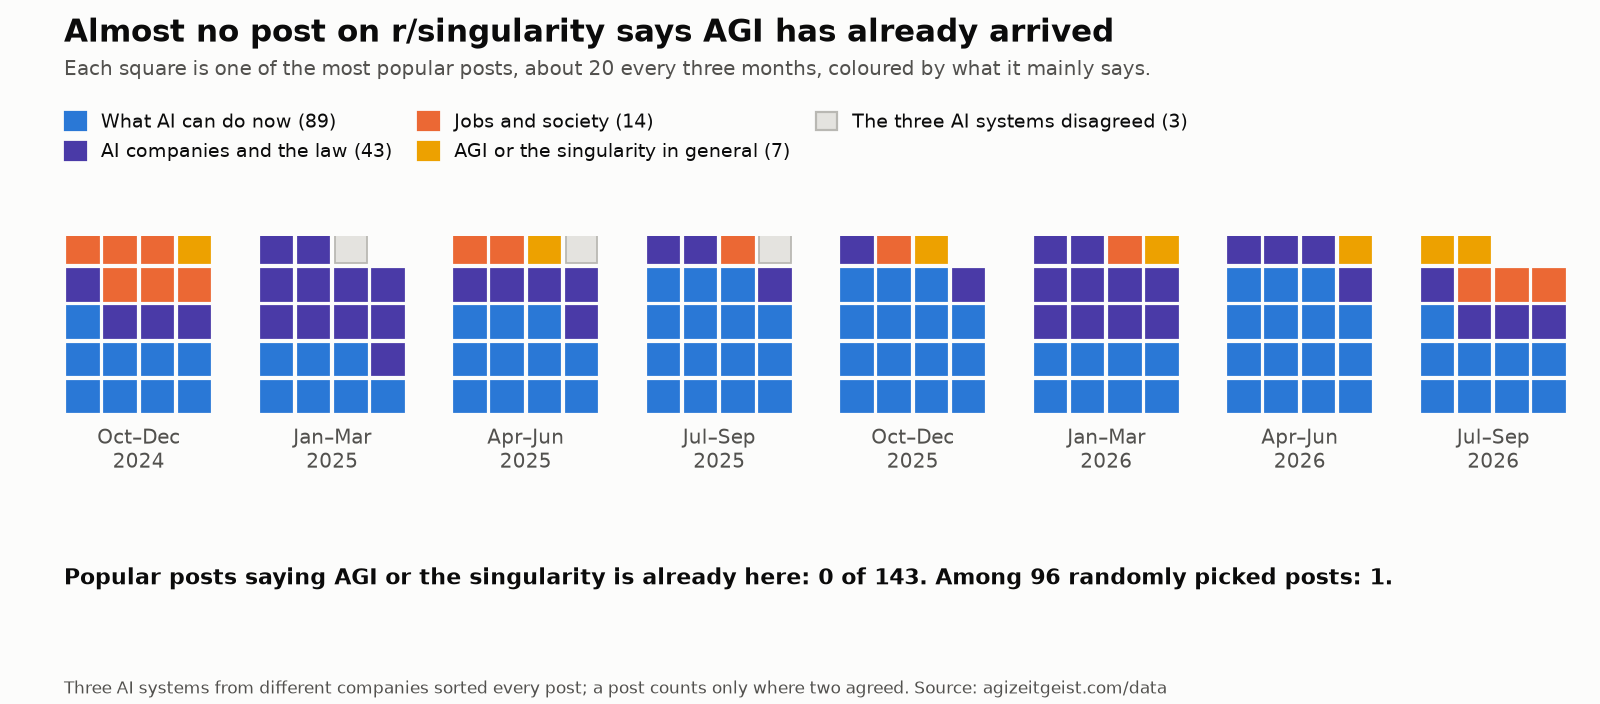
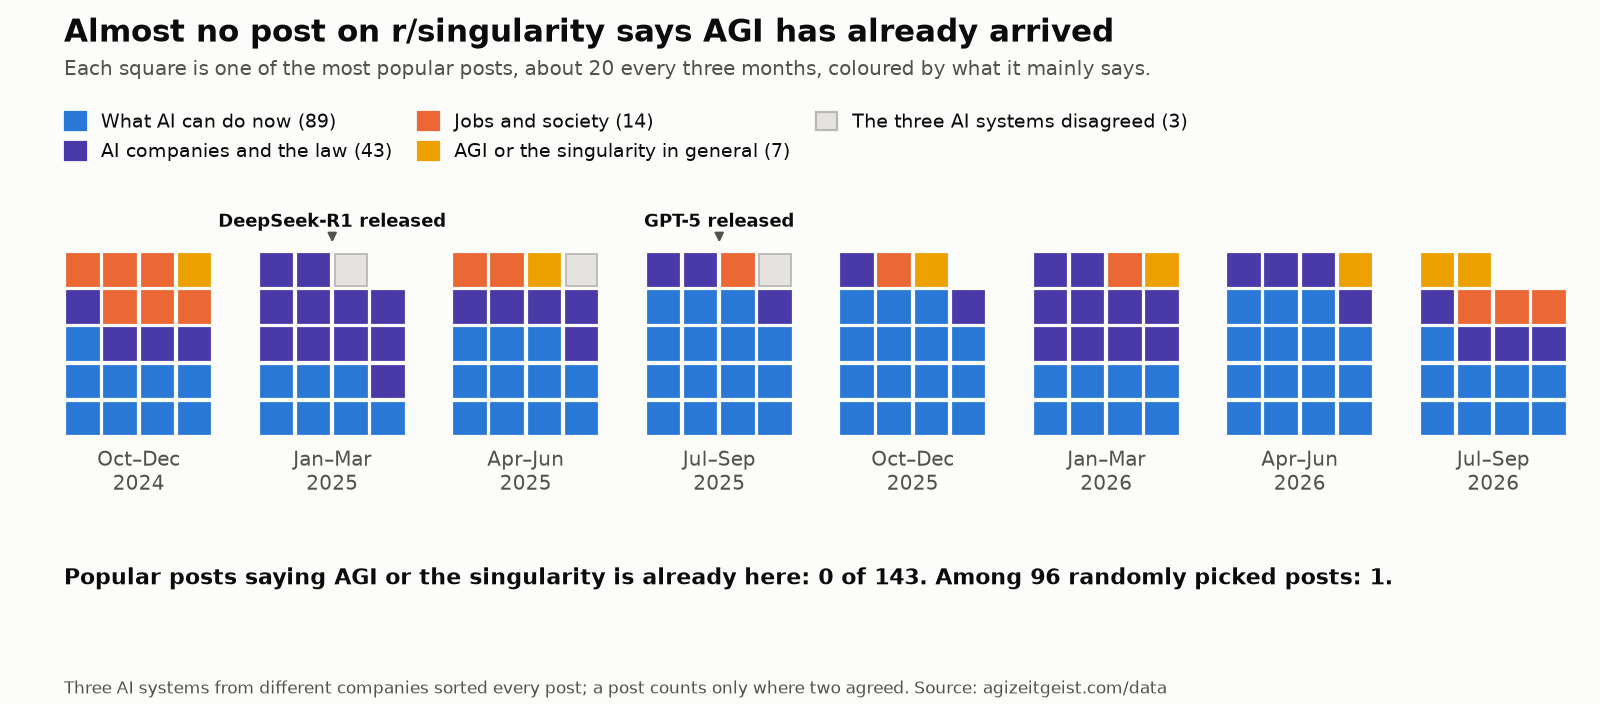
Charts: AI releases marked on the search and forum charts
The search chart draws a dotted line for each AI release in the events list
(AlphaGo to GPT-5), labelled along the line; the forum chart marks the two
releases inside its window (DeepSeek-R1, GPT-5) over their three months. Both
read the dates from data/events.csv by id. Only releases are marked; summits,
letters and government actions stay in the table so the charts stay readable.
The other charts have no time axis an event belongs on. Agreed by John.

Changed region(s): [[0.4062, 0.2812, 1.0, 0.7188], [0.0312, 0.2812, 0.375, 0.7188]]

diff --git a/site/index.html b/site/index.html
@@ -351,14 +351,14 @@ details p { color: var(--text-soft); }
 <h2>Method and data</h2>
 <p>Everything on this page is worked out from tables anyone can <a href="/data/">download</a>, and every row in those tables links to where it came from. What people said and expected is kept in <a href="/data/statements.csv">one set of tables</a>, and what the world actually did (how good AI got, what the companies reported, how the economy grew) in <a href="/data/world_measures.csv">another</a>; the two are never mixed. Every search that was run to find a quote is <a href="/data/search_log.csv">written down</a>, so that someone else can run it again. The working documents behind the site are published as they are written, in the project's own terms, for anyone checking the work: <a href="/docs/methodology-v2">the method</a>, <a href="/docs/codebook">the rules for sorting statements</a>, <a href="/docs/singularity-entry-definition">the rules of the test</a>, and <a href="/docs/amendments">every change, with its date and reason</a>. This page is the plain account of the same material.</p>
 <p>The searching and the sorting of statements were done by Claude, an AI model made by Anthropic, following those written rules; every rule, and every line of the test, was decided by John Fredrickson. The forum posts were sorted by three AI systems from three companies with no person checking them, and systems from different companies can still share blind spots.</p>
-<p class="cite">Cite as: Fredrickson, J. (2026). <em>AGI Zeitgeist Tracker</em> [dataset]. Version of 2026-10-08 (8bc45c5). https://agizeitgeist.com. Data under <a href="/data/LICENSE-DATA.txt">CC BY 4.0</a>; scripts under MIT. The charts are pictures; the table linked beside each one holds the numbers drawn. The test's lines were fixed on 8 October 2026; <a href="/docs/singularity-entry-definition#record-of-the-rulings-2026-10-08">the record of that decision</a>.</p>
+<p class="cite">Cite as: Fredrickson, J. (2026). <em>AGI Zeitgeist Tracker</em> [dataset]. Version of 2026-10-08 (e8ac957). https://agizeitgeist.com. Data under <a href="/data/LICENSE-DATA.txt">CC BY 4.0</a>; scripts under MIT. The charts are pictures; the table linked beside each one holds the numbers drawn. The test's lines were fixed on 8 October 2026; <a href="/docs/singularity-entry-definition#record-of-the-rulings-2026-10-08">the record of that decision</a>.</p>
 </section>
 </div>
 <aside class="rail">
 <h4>On this page</h4>
 <nav class="toc"><a href="#belief" class="">The current zeitgeist</a><a href="#singularity" class="">Are we in the singularity?</a><a href="#leg-a" class="d3">A. The pace</a><a href="#leg-b" class="d3">B. Forecasts</a><a href="#leg-c" class="d3">C. AI doing research</a><a href="#leg-d" class="d3">D. The economy</a><a href="#owed" class="d3">Not finished yet</a><a href="#method" class="">Method and data</a></nav>
 <h4 class="rail-sec">Use the data</h4>
-<p class="use"><a href="/data/">Download every table</a> (free to reuse with credit) · <a href="#method">How to cite</a> · <a href="/data/">What each file holds</a> · version 8bc45c5</p>
+<p class="use"><a href="/data/">Download every table</a> (free to reuse with credit) · <a href="#method">How to cite</a> · <a href="/data/">What each file holds</a> · version e8ac957</p>
 </aside>
 </div>
 
@@ -367,7 +367,7 @@ details p { color: var(--text-soft); }
 <span class="footer-brand">AGI Zeitgeist Tracker</span>
 <p class="footer-tag">A dated record of what people expect from artificial general intelligence, with every quote linked to its source, and a test of whether the singularity has begun.</p>
 <p class="footer-links"><a href="/data/">Download the data</a><a href="/#method">Method and data</a><a href="/docs/singularity-entry-definition">Definitions</a><a href="/docs/amendments">Changelog</a></p>
-<p class="footer-meta">© 2026 John Fredrickson. Last built 8 October 2026 (version 8bc45c5) from 159 expert statements, 97 measurements of AI and the economy and 390 community posts. Free to reuse with credit (<a href="https://creativecommons.org/licenses/by/4.0/" rel="license">CC BY 4.0</a>); code under the MIT licence.</p>
+<p class="footer-meta">© 2026 John Fredrickson. Last built 8 October 2026 (version e8ac957) from 159 expert statements, 97 measurements of AI and the economy and 390 community posts. Free to reuse with credit (<a href="https://creativecommons.org/licenses/by/4.0/" rel="license">CC BY 4.0</a>); code under the MIT licence.</p>
 <p class="footer-parent"><a href="https://sentient-horizons.com" rel="noopener">A Sentient Horizons project.</a></p>
 </div></div></footer>
 <script>

diff --git a/site/docs/panel-evidence-2026-10/prominence-group-b.html b/site/docs/panel-evidence-2026-10/prominence-group-b.html
@@ -390,13 +390,13 @@ qualifying item at most. Queries:
 <code>"Ernest Davis" Winograd Schema Challenge 2016 Turing test chatbots MIT Technology Review OR Wired OR "New Scientist"</code>;
 <code>"Gary Marcus" "Ernest Davis" New Yorker OR "New York Times" 2014 OR 2015 OR 2016 artificial intelligence</code>;
 <code>"Ernest Davis" "New York University" computer scientist quoted artificial intelligence 2015 OR 2016 OR 2017 Markoff OR Wired OR "Scientific American"</code></p>
-<p class="cite">Rendered from <code>docs/panel-evidence-2026-10/prominence-group-b.md</code> at version 8bc45c5.</p></div>
+<p class="cite">Rendered from <code>docs/panel-evidence-2026-10/prominence-group-b.md</code> at version e8ac957.</p></div>
 </main>
 <footer class="site-footer"><div class="container footer-grid"><div>
 <span class="footer-brand">AGI Zeitgeist Tracker</span>
 <p class="footer-tag">A dated record of what people expect from artificial general intelligence, with every quote linked to its source, and a test of whether the singularity has begun.</p>
 <p class="footer-links"><a href="/data/">Download the data</a><a href="/#method">Method and data</a><a href="/docs/singularity-entry-definition">Definitions</a><a href="/docs/amendments">Changelog</a></p>
-<p class="footer-meta">© 2026 John Fredrickson. Last built 8 October 2026 (version 8bc45c5) from 159 expert statements, 97 measurements of AI and the economy and 390 community posts. Free to reuse with credit (<a href="https://creativecommons.org/licenses/by/4.0/" rel="license">CC BY 4.0</a>); code under the MIT licence.</p>
+<p class="footer-meta">© 2026 John Fredrickson. Last built 8 October 2026 (version e8ac957) from 159 expert statements, 97 measurements of AI and the economy and 390 community posts. Free to reuse with credit (<a href="https://creativecommons.org/licenses/by/4.0/" rel="license">CC BY 4.0</a>); code under the MIT licence.</p>
 <p class="footer-parent"><a href="https://sentient-horizons.com" rel="noopener">A Sentient Horizons project.</a></p>
 </div></div></footer>
 <script>

diff --git a/site/docs/panel-evidence-2026-10/cohort-search-2026-10-06.html b/site/docs/panel-evidence-2026-10/cohort-search-2026-10-06.html
@@ -325,13 +325,13 @@ three readings, recommended by Claude: Liang is tagged
 <code>frontier_lab</code>, Mensch is not; Mensch's April 2024 "I don't
 believe in AGI" counts as his 2024-or-later statement; Narayanan is
 taken, not Kapoor, and Kapoor stays on the wide list.</p>
-<p class="cite">Rendered from <code>docs/panel-evidence-2026-10/cohort-search-2026-10-06.md</code> at version 8bc45c5.</p></div>
+<p class="cite">Rendered from <code>docs/panel-evidence-2026-10/cohort-search-2026-10-06.md</code> at version e8ac957.</p></div>
 </main>
 <footer class="site-footer"><div class="container footer-grid"><div>
 <span class="footer-brand">AGI Zeitgeist Tracker</span>
 <p class="footer-tag">A dated record of what people expect from artificial general intelligence, with every quote linked to its source, and a test of whether the singularity has begun.</p>
 <p class="footer-links"><a href="/data/">Download the data</a><a href="/#method">Method and data</a><a href="/docs/singularity-entry-definition">Definitions</a><a href="/docs/amendments">Changelog</a></p>
-<p class="footer-meta">© 2026 John Fredrickson. Last built 8 October 2026 (version 8bc45c5) from 159 expert statements, 97 measurements of AI and the economy and 390 community posts. Free to reuse with credit (<a href="https://creativecommons.org/licenses/by/4.0/" rel="license">CC BY 4.0</a>); code under the MIT licence.</p>
+<p class="footer-meta">© 2026 John Fredrickson. Last built 8 October 2026 (version e8ac957) from 159 expert statements, 97 measurements of AI and the economy and 390 community posts. Free to reuse with credit (<a href="https://creativecommons.org/licenses/by/4.0/" rel="license">CC BY 4.0</a>); code under the MIT licence.</p>
 <p class="footer-parent"><a href="https://sentient-horizons.com" rel="noopener">A Sentient Horizons project.</a></p>
 </div></div></footer>
 <script>

diff --git a/site/docs/vanguard/proposed-rules-2026-10-03.html b/site/docs/vanguard/proposed-rules-2026-10-03.html
@@ -163,13 +163,13 @@ seems, appears, suggests, early signs, if, or an equivalent phrase.
 Otherwise unqualified. Code explicit_probability only for a stated
 number or odds. Code unclear only when no claim is stated in words at
 all (a title that just names a topic, such as "X's thoughts on AI").</p>
-<p class="cite">Rendered from <code>docs/vanguard/proposed-rules-2026-10-03.md</code> at version 8bc45c5.</p></div>
+<p class="cite">Rendered from <code>docs/vanguard/proposed-rules-2026-10-03.md</code> at version e8ac957.</p></div>
 </main>
 <footer class="site-footer"><div class="container footer-grid"><div>
 <span class="footer-brand">AGI Zeitgeist Tracker</span>
 <p class="footer-tag">A dated record of what people expect from artificial general intelligence, with every quote linked to its source, and a test of whether the singularity has begun.</p>
 <p class="footer-links"><a href="/data/">Download the data</a><a href="/#method">Method and data</a><a href="/docs/singularity-entry-definition">Definitions</a><a href="/docs/amendments">Changelog</a></p>
-<p class="footer-meta">© 2026 John Fredrickson. Last built 8 October 2026 (version 8bc45c5) from 159 expert statements, 97 measurements of AI and the economy and 390 community posts. Free to reuse with credit (<a href="https://creativecommons.org/licenses/by/4.0/" rel="license">CC BY 4.0</a>); code under the MIT licence.</p>
+<p class="footer-meta">© 2026 John Fredrickson. Last built 8 October 2026 (version e8ac957) from 159 expert statements, 97 measurements of AI and the economy and 390 community posts. Free to reuse with credit (<a href="https://creativecommons.org/licenses/by/4.0/" rel="license">CC BY 4.0</a>); code under the MIT licence.</p>
 <p class="footer-parent"><a href="https://sentient-horizons.com" rel="noopener">A Sentient Horizons project.</a></p>
 </div></div></footer>
 <script>

diff --git a/site/docs/panel-evidence-2026-10/a13-cohort-new.html b/site/docs/panel-evidence-2026-10/a13-cohort-new.html
@@ -350,13 +350,13 @@ Cowen 2015 machines that think naches (limited to edge.org); (5)
 2015 OR 2016 OR 2017 (limited to marginalrevolution.com); (7) "Tyler
 Cowen" "Average Is Over" 2013 machines intelligent future review New
 York Times OR Economist OR Wired OR "New Yorker". 7 of 8 used.</p>
-<p class="cite">Rendered from <code>docs/panel-evidence-2026-10/a13-cohort-new.md</code> at version 8bc45c5.</p></div>
+<p class="cite">Rendered from <code>docs/panel-evidence-2026-10/a13-cohort-new.md</code> at version e8ac957.</p></div>
 </main>
 <footer class="site-footer"><div class="container footer-grid"><div>
 <span class="footer-brand">AGI Zeitgeist Tracker</span>
 <p class="footer-tag">A dated record of what people expect from artificial general intelligence, with every quote linked to its source, and a test of whether the singularity has begun.</p>
 <p class="footer-links"><a href="/data/">Download the data</a><a href="/#method">Method and data</a><a href="/docs/singularity-entry-definition">Definitions</a><a href="/docs/amendments">Changelog</a></p>
-<p class="footer-meta">© 2026 John Fredrickson. Last built 8 October 2026 (version 8bc45c5) from 159 expert statements, 97 measurements of AI and the economy and 390 community posts. Free to reuse with credit (<a href="https://creativecommons.org/licenses/by/4.0/" rel="license">CC BY 4.0</a>); code under the MIT licence.</p>
+<p class="footer-meta">© 2026 John Fredrickson. Last built 8 October 2026 (version e8ac957) from 159 expert statements, 97 measurements of AI and the economy and 390 community posts. Free to reuse with credit (<a href="https://creativecommons.org/licenses/by/4.0/" rel="license">CC BY 4.0</a>); code under the MIT licence.</p>
 <p class="footer-parent"><a href="https://sentient-horizons.com" rel="noopener">A Sentient Horizons project.</a></p>
 </div></div></footer>
 <script>

diff --git a/site/docs/reviews/public-track-review-gpt-6-astra-2026-10.html b/site/docs/reviews/public-track-review-gpt-6-astra-2026-10.html
@@ -574,13 +574,13 @@ population beliefs, published argument, and specialist
 discourse.</strong> Let the headline emerge from their agreement or
 divergence. That structure gives the project room to discover something
 more informative than a single sequence of eras.</p>
-<p class="cite">Rendered from <code>docs/reviews/public-track-review-gpt-6-astra-2026-10.md</code> at version 8bc45c5.</p></div>
+<p class="cite">Rendered from <code>docs/reviews/public-track-review-gpt-6-astra-2026-10.md</code> at version e8ac957.</p></div>
 </main>
 <footer class="site-footer"><div class="container footer-grid"><div>
 <span class="footer-brand">AGI Zeitgeist Tracker</span>
 <p class="footer-tag">A dated record of what people expect from artificial general intelligence, with every quote linked to its source, and a test of whether the singularity has begun.</p>
 <p class="footer-links"><a href="/data/">Download the data</a><a href="/#method">Method and data</a><a href="/docs/singularity-entry-definition">Definitions</a><a href="/docs/amendments">Changelog</a></p>
-<p class="footer-meta">© 2026 John Fredrickson. Last built 8 October 2026 (version 8bc45c5) from 159 expert statements, 97 measurements of AI and the economy and 390 community posts. Free to reuse with credit (<a href="https://creativecommons.org/licenses/by/4.0/" rel="license">CC BY 4.0</a>); code under the MIT licence.</p>
+<p class="footer-meta">© 2026 John Fredrickson. Last built 8 October 2026 (version e8ac957) from 159 expert statements, 97 measurements of AI and the economy and 390 community posts. Free to reuse with credit (<a href="https://creativecommons.org/licenses/by/4.0/" rel="license">CC BY 4.0</a>); code under the MIT licence.</p>
 <p class="footer-parent"><a href="https://sentient-horizons.com" rel="noopener">A Sentient Horizons project.</a></p>
 </div></div></footer>
 <script>

diff --git a/site/docs/reviews/vanguard-stream-review-gpt-6-astra-2026-10.html b/site/docs/reviews/vanguard-stream-review-gpt-6-astra-2026-10.html
@@ -565,13 +565,13 @@ measure of an advancing “vanguard frontier,” and a mirrored skeptic
 sample would not fix that. The two biggest blockers are the
 mixed-dimensional ladder and the unproven ability to reconstruct
 historical monthly top-post samples.</p>
-<p class="cite">Rendered from <code>docs/reviews/vanguard-stream-review-gpt-6-astra-2026-10.md</code> at version 8bc45c5.</p></div>
+<p class="cite">Rendered from <code>docs/reviews/vanguard-stream-review-gpt-6-astra-2026-10.md</code> at version e8ac957.</p></div>
 </main>
 <footer class="site-footer"><div class="container footer-grid"><div>
 <span class="footer-brand">AGI Zeitgeist Tracker</span>
 <p class="footer-tag">A dated record of what people expect from artificial general intelligence, with every quote linked to its source, and a test of whether the singularity has begun.</p>
 <p class="footer-links"><a href="/data/">Download the data</a><a href="/#method">Method and data</a><a href="/docs/singularity-entry-definition">Definitions</a><a href="/docs/amendments">Changelog</a></p>
-<p class="footer-meta">© 2026 John Fredrickson. Last built 8 October 2026 (version 8bc45c5) from 159 expert statements, 97 measurements of AI and the economy and 390 community posts. Free to reuse with credit (<a href="https://creativecommons.org/licenses/by/4.0/" rel="license">CC BY 4.0</a>); code under the MIT licence.</p>
+<p class="footer-meta">© 2026 John Fredrickson. Last built 8 October 2026 (version e8ac957) from 159 expert statements, 97 measurements of AI and the economy and 390 community posts. Free to reuse with credit (<a href="https://creativecommons.org/licenses/by/4.0/" rel="license">CC BY 4.0</a>); code under the MIT licence.</p>
 <p class="footer-parent"><a href="https://sentient-horizons.com" rel="noopener">A Sentient Horizons project.</a></p>
 </div></div></footer>
 <script>

diff --git a/site/docs/vanguard/decision-packet-r1a-r1b-2026-10-04.html b/site/docs/vanguard/decision-packet-r1a-r1b-2026-10-04.html
@@ -362,13 +362,13 @@ codebook) can start as soon as you rule here, once the OpenAI account
 has about $15 more credit. Gemini's share is about $9.80, inside the
 approved $15 for the first month. Today's trial runs cost $6.28 against
 the quote's $6.30 for this work.</p>
-<p class="cite">Rendered from <code>docs/vanguard/decision-packet-r1a-r1b-2026-10-04.md</code> at version 8bc45c5.</p></div>
+<p class="cite">Rendered from <code>docs/vanguard/decision-packet-r1a-r1b-2026-10-04.md</code> at version e8ac957.</p></div>
 </main>
 <footer class="site-footer"><div class="container footer-grid"><div>
 <span class="footer-brand">AGI Zeitgeist Tracker</span>
 <p class="footer-tag">A dated record of what people expect from artificial general intelligence, with every quote linked to its source, and a test of whether the singularity has begun.</p>
 <p class="footer-links"><a href="/data/">Download the data</a><a href="/#method">Method and data</a><a href="/docs/singularity-entry-definition">Definitions</a><a href="/docs/amendments">Changelog</a></p>
-<p class="footer-meta">© 2026 John Fredrickson. Last built 8 October 2026 (version 8bc45c5) from 159 expert statements, 97 measurements of AI and the economy and 390 community posts. Free to reuse with credit (<a href="https://creativecommons.org/licenses/by/4.0/" rel="license">CC BY 4.0</a>); code under the MIT licence.</p>
+<p class="footer-meta">© 2026 John Fredrickson. Last built 8 October 2026 (version e8ac957) from 159 expert statements, 97 measurements of AI and the economy and 390 community posts. Free to reuse with credit (<a href="https://creativecommons.org/licenses/by/4.0/" rel="license">CC BY 4.0</a>); code under the MIT licence.</p>
 <p class="footer-parent"><a href="https://sentient-horizons.com" rel="noopener">A Sentient Horizons project.</a></p>
 </div></div></footer>
 <script>

diff --git a/site/docs/panel-evidence-2026-10/a13-quota-tags-earlier.html b/site/docs/panel-evidence-2026-10/a13-quota-tags-earlier.html
@@ -480,13 +480,13 @@ Russell, Yudkowsky, Altman, and Cotra (404). Also The Register (Ng,
 2015), Robohub (Brooks, 2014), LessWrong (Bengio, 2016), the Harvard
 blog (Bengio, 2019) and TechCrunch (Suleyman, 2016). The ACM interview
 page with Brooks returned 403.</p>
-<p class="cite">Rendered from <code>docs/panel-evidence-2026-10/a13-quota-tags-earlier.md</code> at version 8bc45c5.</p></div>
+<p class="cite">Rendered from <code>docs/panel-evidence-2026-10/a13-quota-tags-earlier.md</code> at version e8ac957.</p></div>
 </main>
 <footer class="site-footer"><div class="container footer-grid"><div>
 <span class="footer-brand">AGI Zeitgeist Tracker</span>
 <p class="footer-tag">A dated record of what people expect from artificial general intelligence, with every quote linked to its source, and a test of whether the singularity has begun.</p>
 <p class="footer-links"><a href="/data/">Download the data</a><a href="/#method">Method and data</a><a href="/docs/singularity-entry-definition">Definitions</a><a href="/docs/amendments">Changelog</a></p>
-<p class="footer-meta">© 2026 John Fredrickson. Last built 8 October 2026 (version 8bc45c5) from 159 expert statements, 97 measurements of AI and the economy and 390 community posts. Free to reuse with credit (<a href="https://creativecommons.org/licenses/by/4.0/" rel="license">CC BY 4.0</a>); code under the MIT licence.</p>
+<p class="footer-meta">© 2026 John Fredrickson. Last built 8 October 2026 (version e8ac957) from 159 expert statements, 97 measurements of AI and the economy and 390 community posts. Free to reuse with credit (<a href="https://creativecommons.org/licenses/by/4.0/" rel="license">CC BY 4.0</a>); code under the MIT licence.</p>
 <p class="footer-parent"><a href="https://sentient-horizons.com" rel="noopener">A Sentient Horizons project.</a></p>
 </div></div></footer>
 <script>

diff --git a/site/docs/vanguard/trial-rule-r1a-2026-10-03.html b/site/docs/vanguard/trial-rule-r1a-2026-10-03.html
@@ -130,13 +130,13 @@ or describes the item counts as no comment, even when the poster wrote
 it. Code affirms or denies only when the poster adds words of their own
 that accept or reject the claim as true. This rule covers stance only;
 code every other field as the codebook says.</p>
-<p class="cite">Rendered from <code>docs/vanguard/trial-rule-r1a-2026-10-03.md</code> at version 8bc45c5.</p></div>
+<p class="cite">Rendered from <code>docs/vanguard/trial-rule-r1a-2026-10-03.md</code> at version e8ac957.</p></div>
 </main>
 <footer class="site-footer"><div class="container footer-grid"><div>
 <span class="footer-brand">AGI Zeitgeist Tracker</span>
 <p class="footer-tag">A dated record of what people expect from artificial general intelligence, with every quote linked to its source, and a test of whether the singularity has begun.</p>
 <p class="footer-links"><a href="/data/">Download the data</a><a href="/#method">Method and data</a><a href="/docs/singularity-entry-definition">Definitions</a><a href="/docs/amendments">Changelog</a></p>
-<p class="footer-meta">© 2026 John Fredrickson. Last built 8 October 2026 (version 8bc45c5) from 159 expert statements, 97 measurements of AI and the economy and 390 community posts. Free to reuse with credit (<a href="https://creativecommons.org/licenses/by/4.0/" rel="license">CC BY 4.0</a>); code under the MIT licence.</p>
+<p class="footer-meta">© 2026 John Fredrickson. Last built 8 October 2026 (version e8ac957) from 159 expert statements, 97 measurements of AI and the economy and 390 community posts. Free to reuse with credit (<a href="https://creativecommons.org/licenses/by/4.0/" rel="license">CC BY 4.0</a>); code under the MIT licence.</p>
 <p class="footer-parent"><a href="https://sentient-horizons.com" rel="noopener">A Sentient Horizons project.</a></p>
 </div></div></footer>
 <script>

diff --git a/site/docs/vanguard/trial-rule-r1b-2026-10-03.html b/site/docs/vanguard/trial-rule-r1b-2026-10-03.html
@@ -131,13 +131,13 @@ post, demo or announcement; panel_member or other_person for a person's
 post or quote). If the post links or shows no identifiable source,
 attribution = original. This rule covers attribution only; code every
 other field as the codebook says.</p>
-<p class="cite">Rendered from <code>docs/vanguard/trial-rule-r1b-2026-10-03.md</code> at version 8bc45c5.</p></div>
+<p class="cite">Rendered from <code>docs/vanguard/trial-rule-r1b-2026-10-03.md</code> at version e8ac957.</p></div>
 </main>
 <footer class="site-footer"><div class="container footer-grid"><div>
 <span class="footer-brand">AGI Zeitgeist Tracker</span>
 <p class="footer-tag">A dated record of what people expect from artificial general intelligence, with every quote linked to its source, and a test of whether the singularity has begun.</p>
 <p class="footer-links"><a href="/data/">Download the data</a><a href="/#method">Method and data</a><a href="/docs/singularity-entry-definition">Definitions</a><a href="/docs/amendments">Changelog</a></p>
-<p class="footer-meta">© 2026 John Fredrickson. Last built 8 October 2026 (version 8bc45c5) from 159 expert statements, 97 measurements of AI and the economy and 390 community posts. Free to reuse with credit (<a href="https://creativecommons.org/licenses/by/4.0/" rel="license">CC BY 4.0</a>); code under the MIT licence.</p>
+<p class="footer-meta">© 2026 John Fredrickson. Last built 8 October 2026 (version e8ac957) from 159 expert statements, 97 measurements of AI and the economy and 390 community posts. Free to reuse with credit (<a href="https://creativecommons.org/licenses/by/4.0/" rel="license">CC BY 4.0</a>); code under the MIT licence.</p>
 <p class="footer-parent"><a href="https://sentient-horizons.com" rel="noopener">A Sentient Horizons project.</a></p>
 </div></div></footer>
 <script>

diff --git a/site/docs/panel-evidence-2026-10/statements-core-a.html b/site/docs/panel-evidence-2026-10/statements-core-a.html
@@ -465,13 +465,13 @@ newyorker.com, theverge.com, reddit.com, web.archive.org, archive.ph,
 techland.time.com (certificate error), nobelprize.org (403),
 ifanyonebuildsit.com (429 too many requests), the old
 technologyreview.com interview URL (404).</p>
-<p class="cite">Rendered from <code>docs/panel-evidence-2026-10/statements-core-a.md</code> at version 8bc45c5.</p></div>
+<p class="cite">Rendered from <code>docs/panel-evidence-2026-10/statements-core-a.md</code> at version e8ac957.</p></div>
 </main>
 <footer class="site-footer"><div class="container footer-grid"><div>
 <span class="footer-brand">AGI Zeitgeist Tracker</span>
 <p class="footer-tag">A dated record of what people expect from artificial general intelligence, with every quote linked to its source, and a test of whether the singularity has begun.</p>
 <p class="footer-links"><a href="/data/">Download the data</a><a href="/#method">Method and data</a><a href="/docs/singularity-entry-definition">Definitions</a><a href="/docs/amendments">Changelog</a></p>
-<p class="footer-meta">© 2026 John Fredrickson. Last built 8 October 2026 (version 8bc45c5) from 159 expert statements, 97 measurements of AI and the economy and 390 community posts. Free to reuse with credit (<a href="https://creativecommons.org/licenses/by/4.0/" rel="license">CC BY 4.0</a>); code under the MIT licence.</p>
+<p class="footer-meta">© 2026 John Fredrickson. Last built 8 October 2026 (version e8ac957) from 159 expert statements, 97 measurements of AI and the economy and 390 community posts. Free to reuse with credit (<a href="https://creativecommons.org/licenses/by/4.0/" rel="license">CC BY 4.0</a>); code under the MIT licence.</p>
 <p class="footer-parent"><a href="https://sentient-horizons.com" rel="noopener">A Sentient Horizons project.</a></p>
 </div></div></footer>
 <script>
